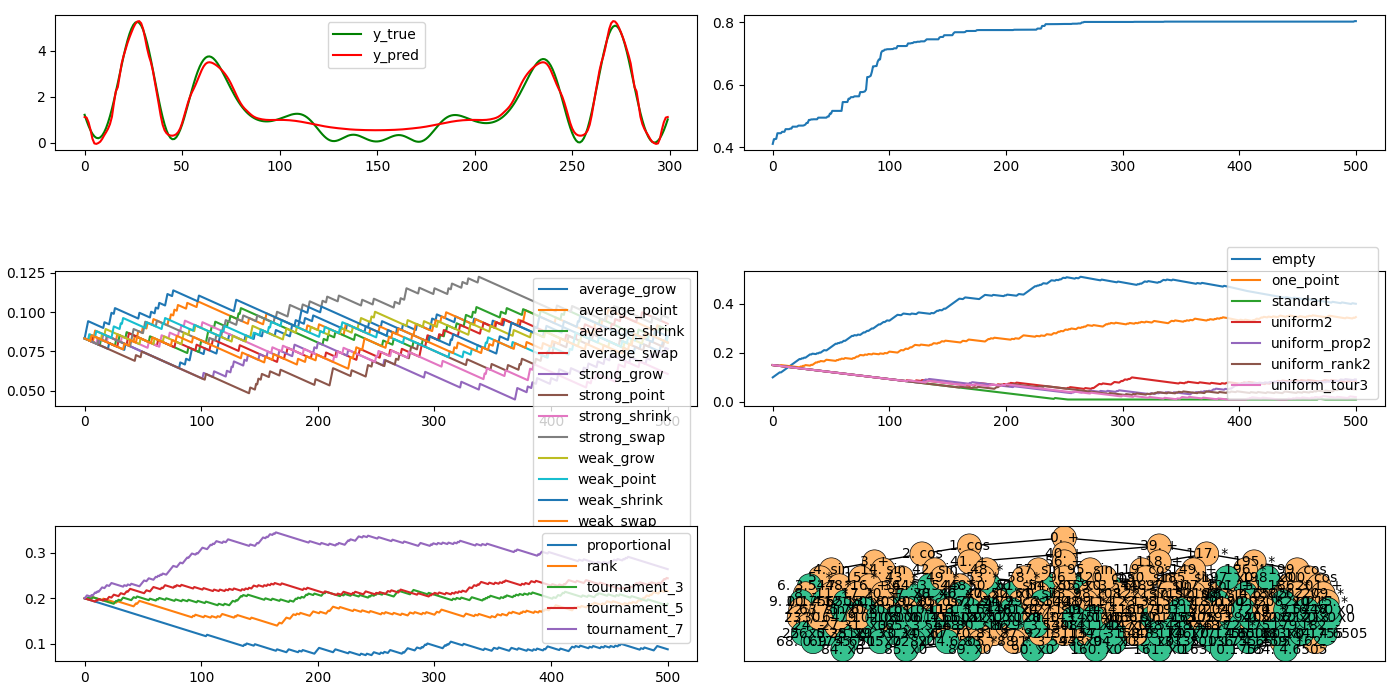
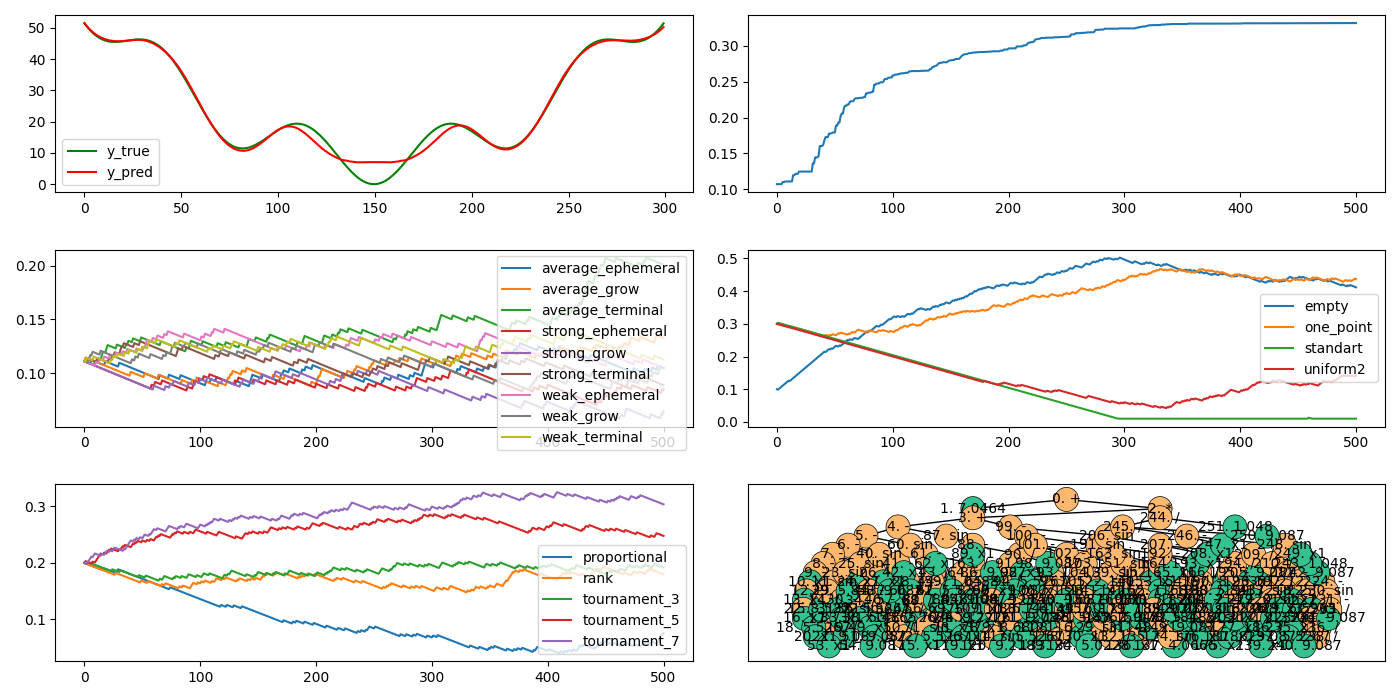
separate point mutation

diff --git a/src/thefittest/tools/operators.py b/src/thefittest/tools/operators.py
@@ -1,6 +1,8 @@
 import numpy as np
 from ..optimizers._base import Tree
 from ..optimizers._base import FunctionalNode
+from ..optimizers._base import TerminalNode
+from ..optimizers._base import EphemeralConstantNode
 from .generators import growing_method
 from .generators import sattolo_shuffle
 from .transformations import protect_norm
@@ -94,11 +96,43 @@ def point_mutation(some_tree, uniset,
     if np.random.random() < proba:
         i = np.random.randint(0, len(to_return))
         if type(to_return.nodes[i]) != FunctionalNode:
-            new_node = uniset.random_terminal()
+            new_node = uniset.random_terminal_or_ephemeral()
         else:
             n_args = to_return.nodes[i].n_args
             new_node = uniset.random_functional(n_args)
         to_return.nodes[i] = new_node
+
+    return to_return
+
+
+def ephemeral_mutation(some_tree, uniset,
+                       proba_down, max_level):
+    to_return = some_tree.copy()
+
+    proba = proba_down/len(to_return)
+    if np.random.random() < proba:
+        indexes = [i for i, nodes in enumerate(to_return.nodes)
+                   if type(nodes) == EphemeralConstantNode]
+        if len(indexes) > 0:
+            i = random.choice(indexes)
+            new_node = uniset.random_ephemeral()
+            to_return.nodes[i] = new_node
+
+    return to_return
+
+
+def terminal_mutation(some_tree, uniset,
+                       proba_down, max_level):
+    to_return = some_tree.copy()
+
+    proba = proba_down/len(to_return)
+    if np.random.random() < proba:
+        indexes = [i for i, nodes in enumerate(to_return.nodes)
+                   if type(nodes) == TerminalNode]
+        if len(indexes) > 0:
+            i = random.choice(indexes)
+            new_node = uniset.random_terminal()
+            to_return.nodes[i] = new_node
 
     return to_return
 

diff --git a/src/thefittest/optimizers/_base.py b/src/thefittest/optimizers/_base.py
@@ -213,7 +213,7 @@ class Tree:
             if keep_id:
                 labels[index] = str(index) + '. ' + node.sign[:6]
             else:
-                labels[index] = str(index) + '. ' + node.sign[:6]
+                labels[index] = node.sign[:6]
 
             nodes.append(index)
 
@@ -308,11 +308,11 @@ class EphemeralConstantNode(Node):
 
 '''functional_set = (FunctionalNode, ..., FunctionalNode)
 terminal_set = (TerminalNode, ..., TerminalNode)
-constant_set = (EphemeralNode, ..., EphemeralNode)'''
+ephemeral_set = (EphemeralNode, ..., EphemeralNode)'''
 
 
 class UniversalSet:
-    def __init__(self, functional_set: list, terminal_set: list, constant_set: list = []):
+    def __init__(self, functional_set: list, terminal_set: list, ephemeral_set: list = []):
         self.functional_set = {'any': functional_set}
         for unit in functional_set:
             n_args = unit.n_args
@@ -320,9 +320,19 @@ class UniversalSet:
                 self.functional_set[n_args] = [unit]
             else:
                 self.functional_set[n_args].append(unit)
-        self.union_terminal = list(terminal_set) + list(constant_set)
+        self.union_terminal = list(terminal_set) + list(ephemeral_set)
+        self.terminal_set = terminal_set
+        self.ephemeral_set = ephemeral_set
 
     def random_terminal(self):
+        choosen = random.choice(self.terminal_set)
+        return choosen
+    
+    def random_ephemeral(self):
+        choosen = random.choice(self.ephemeral_set)
+        return EphemeralConstantNode(choosen)
+
+    def random_terminal_or_ephemeral(self):
         choosen = random.choice(self.union_terminal)
         if type(choosen) is EphemeralNode:
             to_return = EphemeralConstantNode(choosen)

diff --git a/src/test_gp.py b/src/test_gp.py
@@ -48,7 +48,7 @@ def generator2():
     return np.random.randint(0, 10)
 
 
-F = 'F1'
+F = 'F3'
 function = problems_dict[F]['function']
 left = problems_dict[F]['bounds'][0]
 right = problems_dict[F]['bounds'][1]
@@ -70,9 +70,9 @@ functional_set = [FunctionalNode(Add()),
 
 terminal_set = [TerminalNode(X[:, i], f'x{i}') for i in range(n_vars)]
 
-constant_set = [EphemeralNode(generator1)]
+ephemeral_set = [EphemeralNode(generator1)]
 
-uniset = UniversalSet(functional_set, terminal_set, constant_set)
+uniset = UniversalSet(functional_set, terminal_set, ephemeral_set)
 
 
 def fitness_function(trees):
@@ -105,24 +105,24 @@ fig, ax = plt.subplots(figsize=(14, 7), ncols=2, nrows=3)
 
 ax[0][0].plot(range(len(X)), y, label='y_true', color='green')
 ax[0][0].plot(range(len(X)), y_pred, label='y_pred', color='red')
-ax[0][0].legend()
+ax[0][0].legend(loc="upper left")
 
 ax[0][1].plot(range(len(stats.fitness)), stats.fitness)
 
 for key, value in stats.m_proba.items():
     ax[1][0].plot(range(len(value)), value, label=key)
-ax[1][0].legend()
+ax[1][0].legend(loc="upper left")
 
 for key, value in stats.c_proba.items():
     ax[1][1].plot(range(len(value)), value, label=key)
-ax[1][1].legend()
+ax[1][1].legend(loc="upper left")
 
 for key, value in stats.s_proba.items():
     ax[2][0].plot(range(len(value)), value, label=key)
-ax[2][0].legend()
+ax[2][0].legend(loc="upper left")
 
 print_tree(fittest, ax[2][1])
 
-plt.tight_layout()
+plt.tight_layout(loc="upper left")
 plt.savefig('line1.png')
 plt.close()

diff --git a/src/thefittest/optimizers/_geneticprogramming.py b/src/thefittest/optimizers/_geneticprogramming.py
@@ -18,6 +18,8 @@ from ..tools.operators import uniform_crossoverGP_rank
 from ..tools.operators import uniform_crossoverGP_tour
 from ..tools.operators import empty_crossover
 from ..tools.operators import point_mutation
+from ..tools.operators import ephemeral_mutation
+from ..tools.operators import terminal_mutation
 from ..tools.operators import growing_mutation
 from ..tools.operators import swap_mutation
 from ..tools.operators import shrink_mutation
@@ -107,6 +109,12 @@ class GeneticProgramming(EvolutionaryAlgorithm):
         self.m_pool = {'weak_point': (point_mutation, 0.25),
                        'average_point': (point_mutation, 1),
                        'strong_point': (point_mutation, 4),
+                       'weak_ephemeral': (ephemeral_mutation, 0.25),
+                       'average_ephemeral': (ephemeral_mutation, 1),
+                       'strong_ephemeral': (ephemeral_mutation, 4),
+                       'weak_terminal': (terminal_mutation, 0.25),
+                       'average_terminal': (terminal_mutation, 1),
+                       'strong_terminal': (terminal_mutation, 4),
                        'weak_grow': (growing_mutation, 0.25),
                        'average_grow': (growing_mutation, 1),
                        'strong_grow': (growing_mutation, 4),

diff --git a/src/thefittest/tools/generators.py b/src/thefittest/tools/generators.py
@@ -45,7 +45,7 @@ def full_growing_method(uniset, level_max):
             level_i = previous_levels[-1] + 1
         levels.append(level_i)
         if level_i == level_max:
-            nodes.append(uniset.random_terminal())
+            nodes.append(uniset.random_terminal_or_ephemeral())
         else:
             nodes.append(uniset.random_functional())
             n_i = nodes[-1].n_args
@@ -74,7 +74,7 @@ def growing_method(uniset, level_max):
         levels.append(level_i)
 
         if level_i == level_max:
-            nodes.append(uniset.random_terminal())
+            nodes.append(uniset.random_terminal_or_ephemeral())
         elif level_i == 0:
             nodes.append(uniset.random_functional())
             n_i = nodes[-1].n_args
@@ -82,7 +82,7 @@ def growing_method(uniset, level_max):
             previous_levels.append(level_i)
         else:
             if np.random.random() < 0.5:
-                nodes.append(uniset.random_terminal())
+                nodes.append(uniset.random_terminal_or_ephemeral())
             else:
                 nodes.append(uniset.random_functional())
             n_i = nodes[-1].n_args

diff --git a/src/thefittest/optimizers/_selfcgp.py b/src/thefittest/optimizers/_selfcgp.py
@@ -102,18 +102,24 @@ class SelfCGP(GeneticProgramming):
             # 'uniform_tour7'
         ],
             mutation_opers=[
-            'weak_point',
-            'average_point',
-            'strong_point',
+            # 'weak_point',
+            # 'average_point',
+            # 'strong_point',
             'weak_grow',
             'average_grow',
             'strong_grow',
-            'weak_swap',
-            'average_swap',
-            'strong_swap',
-            'weak_shrink',
-            'average_shrink',
-            'strong_shrink'
+            'weak_ephemeral',
+            'average_ephemeral',
+            'strong_ephemeral',
+            'weak_terminal',
+            'average_terminal',
+            'strong_terminal',
+            # 'weak_swap',
+            # 'average_swap',
+            # 'strong_swap',
+            # 'weak_shrink',
+            # 'average_shrink',
+            # 'strong_shrink'
         ])
         self.stats: StatisticsSelfCGP
         self.s_sets: dict
